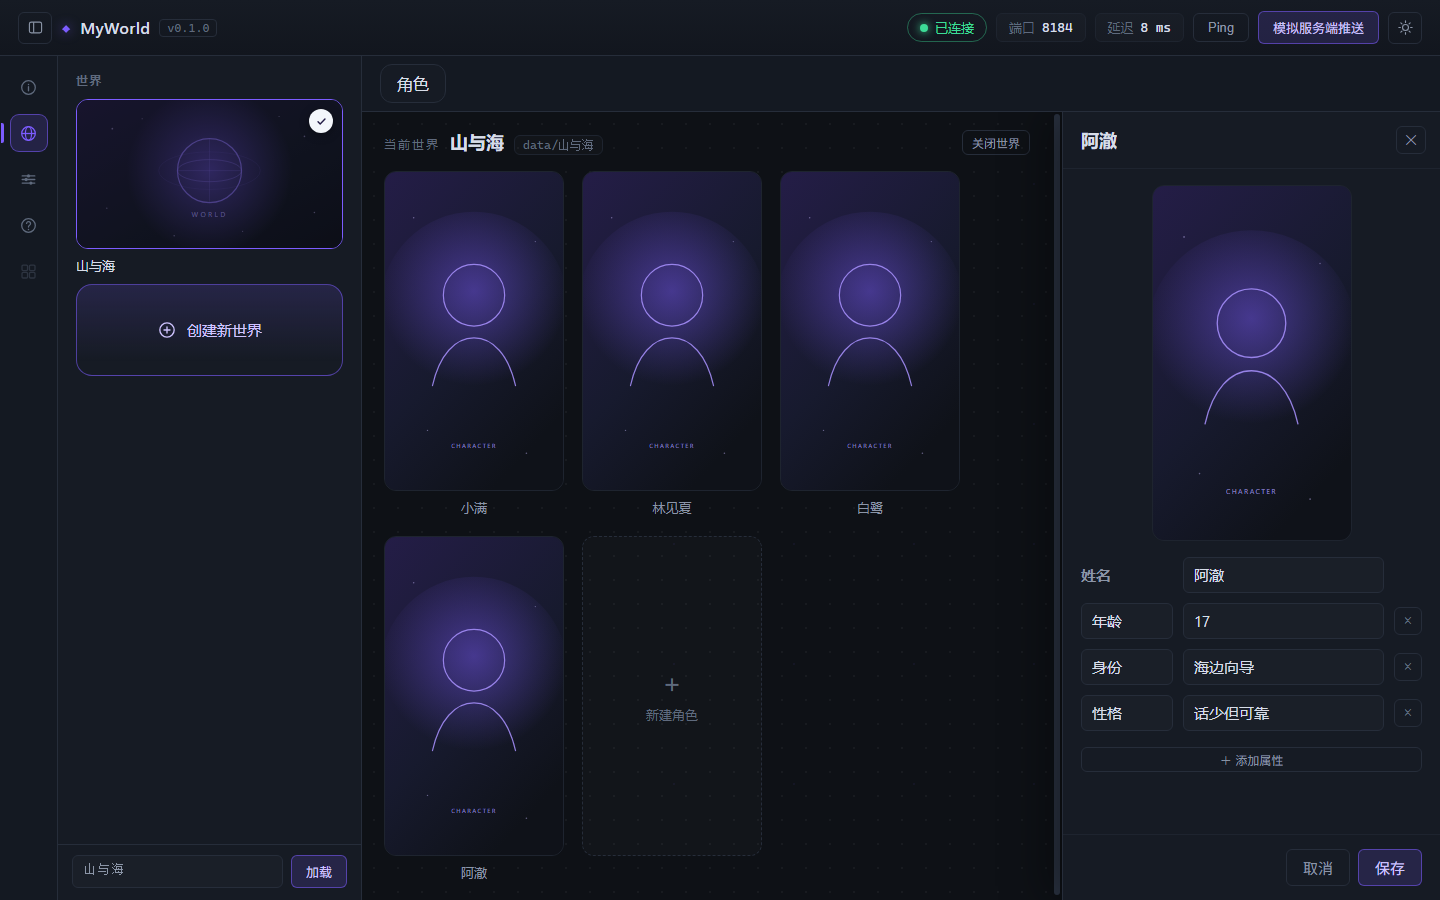
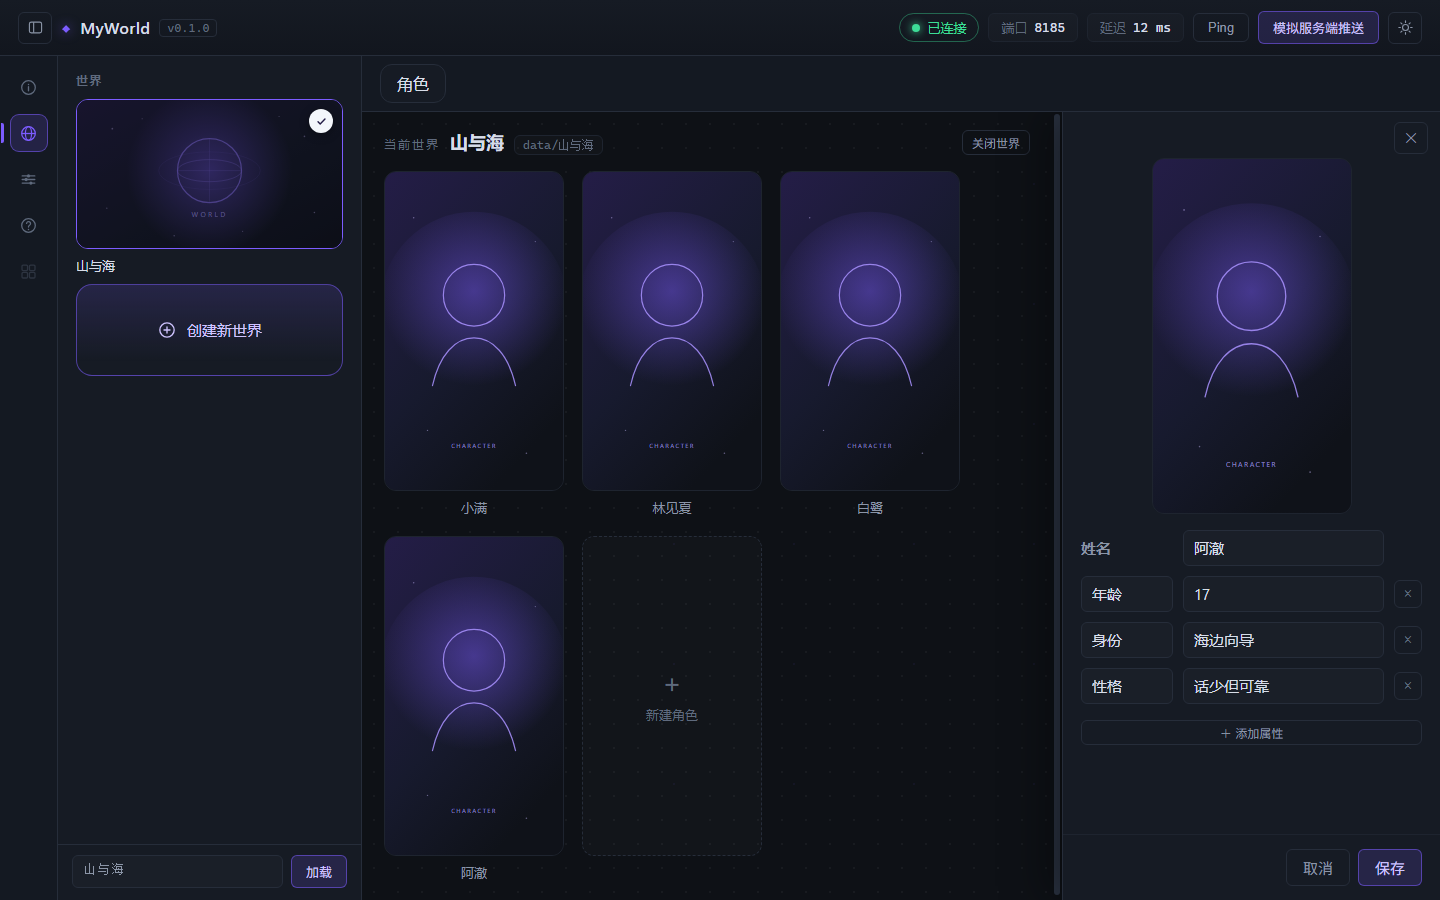
style: 角色面板去掉顶部标题条，只留右上角关闭按钮
- 原来的标题条显示的就是姓名，和下方「姓名」属性行重复，去掉整条
- 关闭按钮改为浮在面板右上角（top 10 / right 12），不占竖直空间
- 面板内容顶部留 46px 内边距，立绘不会被按钮压到
- 深浅主题都核对过；doc 截图更新

diff --git a/web/js/app.js b/web/js/app.js
@@ -61,7 +61,6 @@
     characterEmpty: $("characterEmpty"),
     characterPanel: $("characterPanel"),
     canvasBody: $("canvasBody"),
-    detailTitle: $("detailTitle"),
     detailPhoto: $("detailPhoto"),
     attrList: $("attrList"),
     btnAddAttr: $("btnAddAttr"),
@@ -464,7 +463,6 @@
 
     currentDetailName = item.name;
     if (el.detailError) el.detailError.hidden = true;
-    if (el.detailTitle) el.detailTitle.textContent = item.name;
     if (el.detailPhoto) {
       el.detailPhoto.src = portraitUrl(loadedWorld.name, item.name);
       el.detailPhoto.alt = item.name;
@@ -484,7 +482,6 @@
       const detail = await fetchJSON(
         `/api/worlds/${encodeURIComponent(loadedWorld.name)}/characters/${encodeURIComponent(item.name)}`,
       );
-      if (el.detailTitle) el.detailTitle.textContent = detail.name;
       renderAttributeRows(detail);
     } catch (err) {
       debug("读取角色详情失败", err.message);
@@ -532,7 +529,6 @@
       );
 
       currentDetailName = updated.name;
-      if (el.detailTitle) el.detailTitle.textContent = updated.name;
       if (el.detailPhoto) el.detailPhoto.src = portraitUrl(loadedWorld.name, updated.name);
       await loadCharacters();
       renderAttributeRows(updated);

diff --git a/web/css/style.css b/web/css/style.css
@@ -1342,22 +1342,12 @@ body {
   }
 }
 
-.detail-head {
-  display: flex;
-  align-items: center;
-  justify-content: space-between;
-  gap: 10px;
-  flex: 0 0 auto;
-  padding: 14px 14px 14px 18px;
-  border-bottom: 1px solid var(--border-soft);
-}
-
-.detail-head strong {
-  font-size: 18px;
-  font-weight: 600;
-}
-
-.detail-head .btn.icon {
+/* 关闭按钮浮在右上角，不再占用一条标题栏 */
+.detail-close {
+  position: absolute;
+  top: 10px;
+  right: 12px;
+  z-index: 2;
   width: 30px;
   height: 28px;
   font-size: 14px;
@@ -1369,7 +1359,7 @@ body {
   flex-direction: column;
   gap: 16px;
   min-height: 0;
-  padding: 16px 18px;
+  padding: 46px 18px 16px;
   overflow-y: auto;
 }
 

diff --git a/web/index.html b/web/index.html
@@ -213,10 +213,7 @@
 
         <!-- 右侧角色属性面板 -->
         <aside class="detail-panel" id="characterPanel" aria-hidden="true" aria-label="角色属性">
-          <header class="detail-head">
-            <strong id="detailTitle">角色</strong>
-            <button class="btn ghost icon" id="btnCloseDetail" type="button" aria-label="关闭面板">✕</button>
-          </header>
+          <button class="btn ghost icon detail-close" id="btnCloseDetail" type="button" aria-label="关闭面板">✕</button>
 
           <div class="detail-body">
             <div class="detail-photo-wrap">
